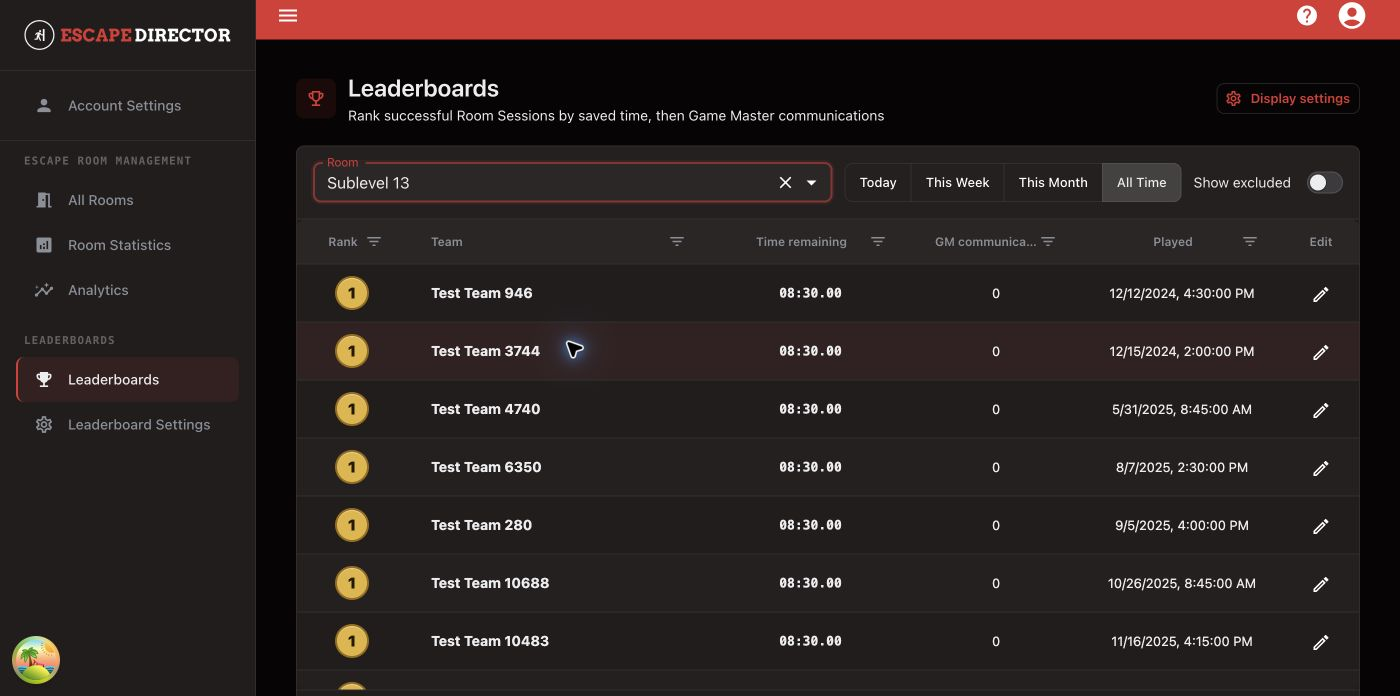
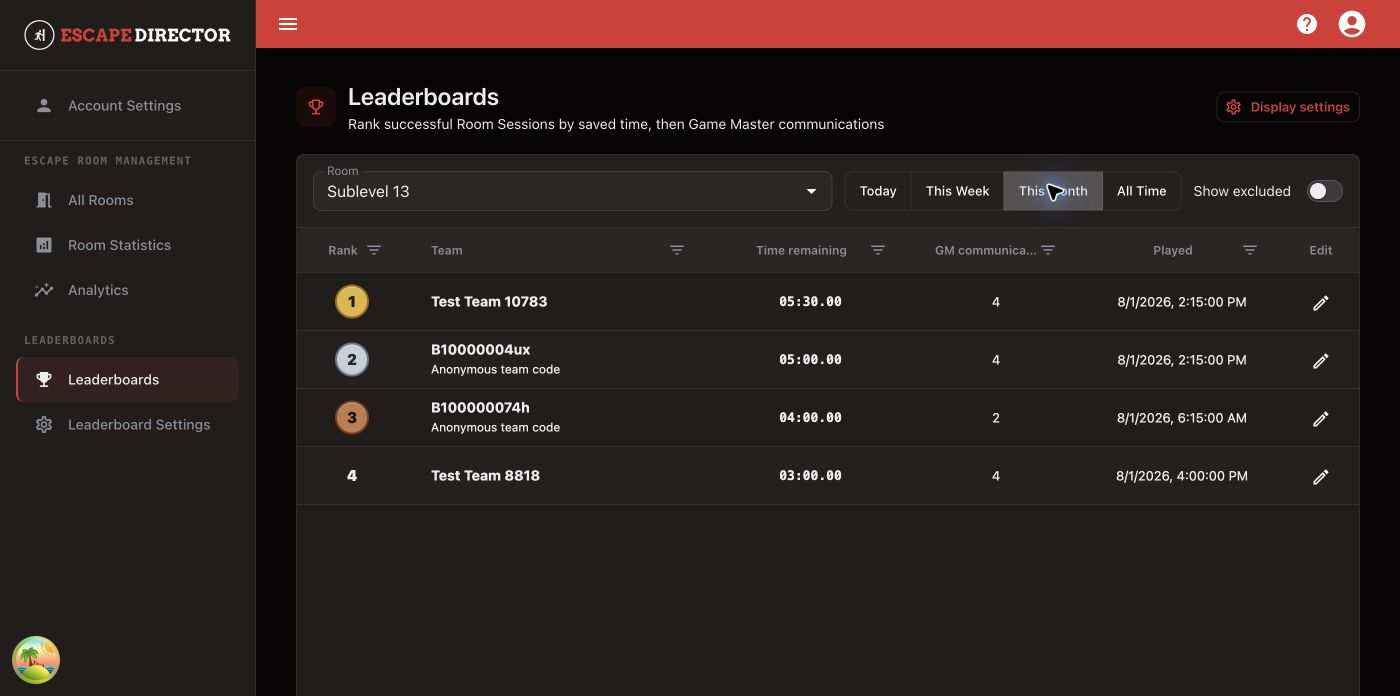
docs: show varied leaderboard ranks

diff --git a/review-and-improve/manage-leaderboards.md b/review-and-improve/manage-leaderboards.md
@@ -13,7 +13,7 @@ Use Leaderboards to review eligible successful Room Sessions and control the pla
 3. Choose **Today**, **This Week**, **This Month**, or **All Time**.
 4. Review team name, saved time remaining, the Room's configured assistance measure, and played date.
 
-<figure><img src="../.gitbook/assets/leaderboards.png" alt="Populated leaderboard for the synthetic Sublevel 13 Room showing ranked successful Room Sessions and the Game Master communications tie-break"><figcaption><p>Leaderboards rank included successful Room Sessions within the selected period.</p></figcaption></figure>
+<figure><img src="../.gitbook/assets/leaderboards.png" alt="Leaderboard for the synthetic Sublevel 13 Room showing gold, silver, bronze, and fourth-place Room Sessions for the selected month, with different saved times and Game Master communication counts"><figcaption><p>Leaderboards rank included successful Room Sessions within the selected period.</p></figcaption></figure>
 
 Saved time remaining determines the primary order. When two eligible Room Sessions have equal time, the Room's configured assistance measure supplies the supported tie-break. Failed Room Sessions are not ranked.
 
